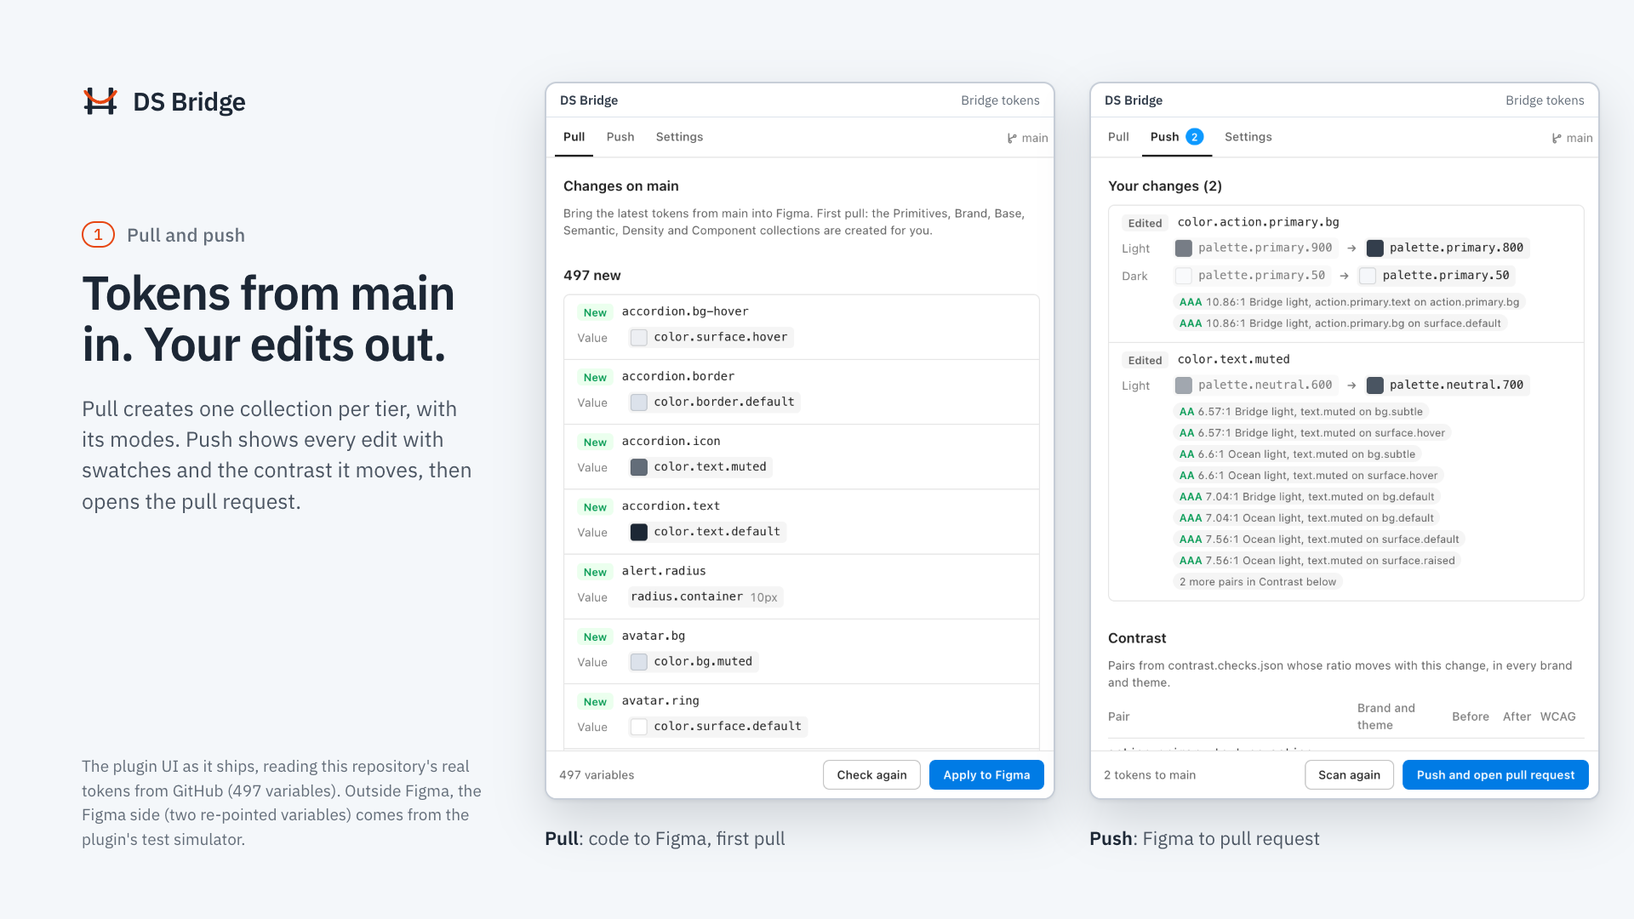
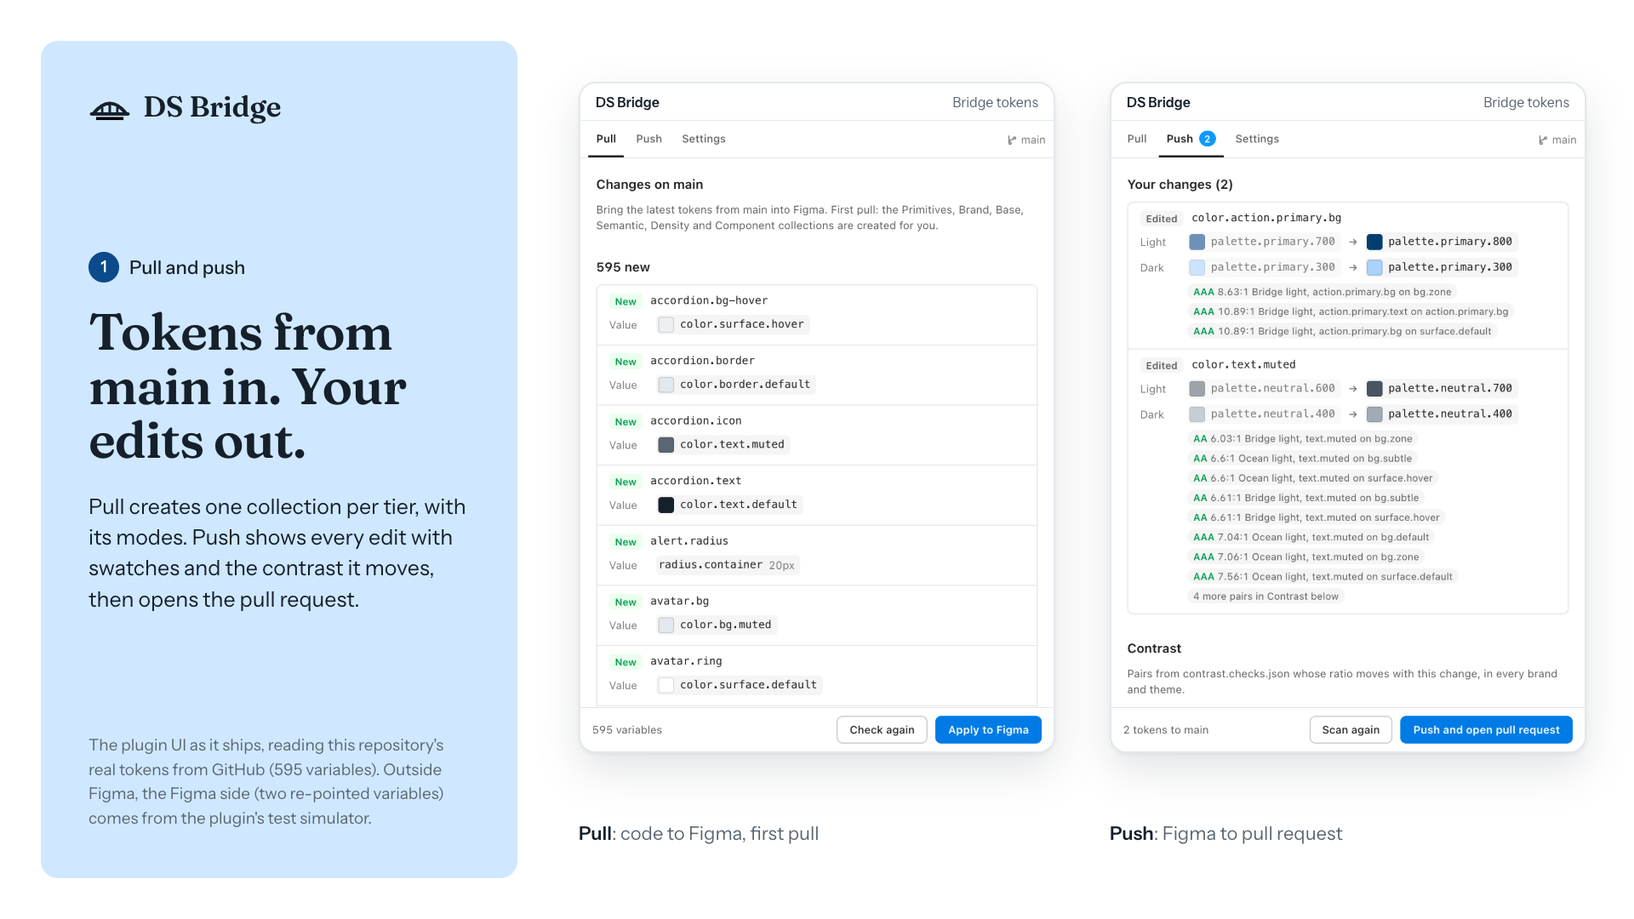
chore(plugin): Community art in the Field Guide direction
New icon (logo drawing on Harbor), cover and gallery in Fraunces and Instrument Sans with one Harbor zone
per canvas, Deep Harbor as the only strong color. Fresh shots: plugin first pull (595 variables) and push,
Studio Changes (#4) and Tokens. Reviews URL moved to /studio/changes.

Claude-Session: https://claude.ai/code/session_01WdLeRL5DKEJ3wYbg2pTxHK

diff --git a/apps/figma-plugin/community/src/art.html b/apps/figma-plugin/community/src/art.html
@@ -7,189 +7,195 @@
   Figma Community art for DS Bridge, rendered to PNG by render.mjs (one view per screenshot):
   ?view=icon (128x128), cover, gallery-plugin, gallery-review, gallery-tokens (1920x1080).
   Gallery views frame real screenshots (plugin-shots.mjs, web-shots.mjs) passed with ?shots=<folder URL>.
-  Colors and type follow docs/DESIGN-LANGUAGE.md: steel structure, International Orange only as the signal,
-  IBM Plex Sans and Mono. Marketing art, not product CSS: literal values are fine here.
+  Colors and type follow docs/DESIGN-LANGUAGE.md (Field Guide): white paper, ink text, one Harbor zone block per
+  canvas, Deep Harbor as the only strong color; Fraunces, Instrument Sans, IBM Plex Mono. Marketing art, not
+  product CSS: literal values are fine here.
 -->
 <style>
-  @font-face { font-family: "Plex Sans"; src: url("../../../../node_modules/@fontsource-variable/ibm-plex-sans/files/ibm-plex-sans-latin-wght-normal.woff2") format("woff2"); font-weight: 100 700; }
+  @font-face { font-family: "Fraunces"; src: url("../../../../node_modules/@fontsource-variable/fraunces/files/fraunces-latin-wght-normal.woff2") format("woff2"); font-weight: 100 900; }
+  @font-face { font-family: "Instrument Sans"; src: url("../../../../node_modules/@fontsource-variable/instrument-sans/files/instrument-sans-latin-wght-normal.woff2") format("woff2"); font-weight: 400 700; }
   @font-face { font-family: "Plex Mono"; src: url("../../../../node_modules/@fontsource/ibm-plex-mono/files/ibm-plex-mono-latin-400-normal.woff2") format("woff2"); font-weight: 400; }
   @font-face { font-family: "Plex Mono"; src: url("../../../../node_modules/@fontsource/ibm-plex-mono/files/ibm-plex-mono-latin-500-normal.woff2") format("woff2"); font-weight: 500; }
 
   :root {
-    --fog: #f4f7fa; --deck: #ffffff; --steel-100: #edeff2; --steel-200: #dce3eb; --steel-300: #c7ced8;
-    --steel-500: #818a96; --slate: #636d79; --steel-700: #4b5562; --steel-800: #333e4c; --ink: #1c2735;
-    --night: #0d1826; --signal: #e64611; --signal-soft: #fb8160; --cable: #22749e; --teal: #007e6a;
+    --paper: #ffffff; --ink: #15202b; --ink-2: #5b6672; --line: #e3e8ee; --subtle: #edeff2;
+    --harbor: #cfe8ff; --deep: #0b4a8b;
   }
   * { box-sizing: border-box; margin: 0; }
-  html, body { background: var(--fog); }
-  body { font-family: "Plex Sans", system-ui, sans-serif; color: var(--ink); -webkit-font-smoothing: antialiased; }
+  html, body { background: var(--paper); }
+  body { font-family: "Instrument Sans", system-ui, sans-serif; color: var(--ink); -webkit-font-smoothing: antialiased; }
   .mono { font-family: "Plex Mono", ui-monospace, monospace; }
   .view { display: none; position: relative; overflow: hidden; }
   .view.on { display: block; }
-  .canvas { width: 1920px; height: 1080px; }
+  .canvas { width: 1920px; height: 1080px; background: var(--paper); }
+  h1, h2 { font-family: "Fraunces", Georgia, serif; font-weight: 600; letter-spacing: -0.02em; font-variation-settings: "opsz" 96; }
 
-  /* Bridge mark: same geometry as apps/docs-site/src/components/Logo.astro (symbol #mark below) */
+  /* Bridge mark (Field Guide): same drawing as apps/docs-site/src/brand/illustrations.ts "logo" */
+  .mark { color: var(--ink); }
+  .mark .zone { fill: var(--harbor); }
+  .brand { display: flex; align-items: center; gap: 14px; font-family: "Fraunces", Georgia, serif; font-size: 34px; font-weight: 600; letter-spacing: -0.01em; }
+  .brand svg { width: 50px; height: 40px; }
+  .on-zone .mark .zone { fill: var(--deep); }
 
-  /* Icon */
-  #icon { width: 128px; height: 128px; background: var(--ink); color: var(--fog); }
-  #icon svg { position: absolute; left: 12px; top: 10px; width: 104px; height: 104px; }
+  /* Icon: ink drawing on a Harbor block, Deep Harbor water */
+  #icon { width: 128px; height: 128px; background: var(--harbor); }
+  #icon svg { position: absolute; left: 14px; top: 22px; width: 100px; height: 79px; }
 
-  /* Shared caption column */
-  .eyebrow { display: inline-flex; align-items: center; gap: 14px; font-size: 22px; font-weight: 500; color: var(--slate); letter-spacing: 0.01em; }
-  .eyebrow .step { font-family: "Plex Mono", monospace; font-size: 18px; color: var(--signal); border: 2px solid var(--signal); border-radius: 999px; padding: 2px 12px; }
-  h1, h2 { font-weight: 600; letter-spacing: -0.025em; }
-  .lead { font-size: 28px; line-height: 1.45; color: var(--steel-700); }
-  .brand { display: flex; align-items: center; gap: 16px; font-size: 30px; font-weight: 600; letter-spacing: -0.015em; color: var(--ink); }
-  .brand svg { width: 44px; height: 44px; color: var(--ink); }
+  /* Zone block: the one Harbor moment of each canvas */
+  .zone-block { position: absolute; background: var(--harbor); border-radius: 20px; }
+  .tag { font-size: 22px; color: var(--ink-2); }
+  .lead { font-size: 27px; line-height: 1.45; color: var(--ink); }
+  .step { display: inline-flex; align-items: center; gap: 12px; font-size: 22px; font-weight: 500; color: var(--ink); }
+  .step b { display: inline-grid; place-items: center; width: 36px; height: 36px; border-radius: 999px; background: var(--deep); color: #fff; font-size: 18px; font-weight: 600; }
 
   /* Cover */
-  #cover { background: var(--fog); }
-  #cover .top { position: absolute; left: 120px; top: 96px; right: 120px; display: flex; justify-content: space-between; align-items: center; }
-  #cover .tag { font-size: 22px; color: var(--slate); }
-  #cover h1 { position: absolute; left: 120px; top: 200px; width: 1300px; font-size: 92px; line-height: 1.04; }
-  #cover h1 em { font-style: normal; color: var(--signal); }
-  #cover .lead { position: absolute; left: 120px; top: 420px; width: 1100px; }
-  .bank { position: absolute; top: 600px; width: 540px; height: 370px; background: var(--deck); border: 2px solid var(--steel-200); border-radius: 20px; padding: 32px 36px; }
-  .bank.code { left: 120px; }
-  .bank.figma { right: 120px; }
-  .bank h3 { font-size: 22px; font-weight: 600; display: flex; justify-content: space-between; align-items: baseline; margin-bottom: 22px; }
-  .bank h3 small { font-family: "Plex Mono", monospace; font-size: 17px; font-weight: 400; color: var(--slate); }
-  .bank .row { display: flex; align-items: center; gap: 14px; font-family: "Plex Mono", monospace; font-size: 18px; height: 50px; border-top: 1px solid var(--steel-100); color: var(--steel-800); }
-  .bank .row:first-of-type { border-top: 0; }
-  .sw { width: 26px; height: 26px; border-radius: 6px; border: 1px solid rgba(28, 39, 53, 0.14); flex: none; }
-  .bank .row .v { margin-left: auto; color: var(--slate); font-size: 16px; }
-  .bank .row.changed { color: var(--ink); }
-  .bank .row.changed .v { color: var(--signal); }
-  .span { position: absolute; left: 670px; right: 670px; top: 560px; height: 450px; }
+  #cover .zone-block { left: 64px; top: 64px; right: 64px; height: 500px; }
+  #cover .top { position: absolute; left: 120px; top: 112px; right: 120px; display: flex; justify-content: space-between; align-items: center; }
+  #cover h1 { position: absolute; left: 120px; top: 210px; width: 1400px; font-size: 92px; line-height: 1.04; }
+  #cover h1 em { font-style: italic; color: var(--deep); }
+  #cover .lead { position: absolute; left: 120px; top: 432px; width: 1180px; }
+  .plate { position: absolute; top: 620px; width: 560px; height: 396px; background: var(--paper); border: 2px solid var(--line); border-radius: 20px; padding: 30px 36px; }
+  .plate.code { left: 64px; }
+  .plate.figma { right: 64px; }
+  .plate h3 { font-size: 24px; font-weight: 600; display: flex; justify-content: space-between; align-items: baseline; margin-bottom: 18px; }
+  .plate h3 small { font-family: "Plex Mono", monospace; font-size: 16px; font-weight: 400; color: var(--ink-2); }
+  .plate .row { display: flex; align-items: center; gap: 14px; font-family: "Plex Mono", monospace; font-size: 18px; height: 58px; border-top: 1px solid var(--line); }
+  .plate .row:first-of-type { border-top: 0; }
+  .sw { width: 26px; height: 26px; border-radius: 6px; border: 1px solid rgba(21, 32, 43, 0.16); flex: none; }
+  .plate .row .v { margin-left: auto; color: var(--ink-2); font-size: 16px; }
+  .plate .row.changed .v { color: var(--deep); font-weight: 500; }
+  .span { position: absolute; left: 640px; right: 640px; top: 620px; height: 396px; }
   .span svg { position: absolute; inset: 0; width: 100%; height: 100%; overflow: visible; }
   .lane { position: absolute; left: 0; right: 0; text-align: center; }
-  .lane b { display: block; font-size: 30px; font-weight: 600; letter-spacing: -0.015em; }
-  .lane span { font-size: 21px; color: var(--slate); }
+  .lane b { display: block; font-family: "Fraunces", Georgia, serif; font-size: 32px; font-weight: 600; }
+  .lane span { font-size: 20px; color: var(--ink-2); }
   .lane.pull { top: 0; }
-  .lane.push { top: 372px; }
+  .lane.push { top: 318px; }
 
-  /* Gallery */
-  .gallery { background: var(--fog); }
-  .gallery .copy { position: absolute; left: 96px; top: 96px; width: 470px; }
-  .gallery .copy .brand { margin-bottom: 120px; }
-  .gallery h2 { font-size: 56px; line-height: 1.08; margin: 22px 0 28px; }
+  /* Gallery: Harbor column opens the space, the real UI sits on paper */
+  .gallery .zone-block { left: 48px; top: 48px; bottom: 48px; width: 560px; }
+  .gallery .copy { position: absolute; left: 104px; top: 104px; width: 450px; }
+  .gallery .copy .brand { margin-bottom: 150px; }
+  .gallery h2 { font-size: 60px; line-height: 1.06; margin: 26px 0 28px; }
   .gallery .lead { font-size: 25px; }
-  .gallery .foot { position: absolute; left: 96px; bottom: 80px; width: 470px; font-size: 19px; line-height: 1.5; color: var(--slate); }
-  .gallery .foot .mono { font-size: 17px; color: var(--steel-700); }
-  .shot { position: absolute; background: var(--deck); border: 2px solid var(--steel-300); overflow: hidden; }
+  .gallery .foot { position: absolute; left: 104px; bottom: 104px; width: 450px; font-size: 19px; line-height: 1.5; color: var(--ink-2); }
+  .gallery .foot .mono { font-size: 16px; color: var(--ink); }
+  .shot { position: absolute; background: var(--paper); border: 2px solid var(--line); overflow: hidden; }
   .shot img { display: block; width: 100%; }
-  .browser { left: 640px; top: 96px; width: 1360px; height: 1100px; border-radius: 18px 0 0 0; border-right: 0; border-bottom: 0; }
-  /* Fitted frame: the whole page width stays inside the canvas (no bleed on the right). */
-  .browser.fit { width: 1220px; border-right: 2px solid var(--steel-300); border-radius: 18px 18px 0 0; }
-  .browser .bar { height: 46px; display: flex; align-items: center; gap: 10px; padding: 0 20px; border-bottom: 2px solid var(--steel-200); background: var(--steel-100); }
-  .browser .page { height: calc(100% - 46px); overflow: hidden; }
-  .browser .bar i { width: 12px; height: 12px; border-radius: 99px; background: var(--steel-300); }
-  .browser .bar .url { margin-left: 18px; font-family: "Plex Mono", monospace; font-size: 16px; color: var(--steel-700); background: var(--deck); border-radius: 8px; padding: 5px 14px; }
-  .window { width: 600px; border-radius: 14px; box-shadow: 0 2px 4px rgba(13, 24, 38, 0.06), 0 24px 56px rgba(13, 24, 38, 0.16); }
-  .window .bar { height: 40px; display: flex; align-items: center; padding: 0 16px; font-size: 15px; font-weight: 600; color: var(--steel-800); border-bottom: 1px solid var(--steel-200); }
-  .window .bar span { margin-left: auto; font-weight: 400; color: var(--slate); }
-  .window img { width: 600px; }
-  .w-pull { left: 640px; top: 96px; }
-  .w-push { left: 1280px; top: 96px; }
-  .w-label { position: absolute; top: 970px; width: 600px; font-size: 22px; color: var(--steel-700); }
+  .browser { left: 664px; top: 176px; width: 1208px; border-radius: 20px; }
+  .browser .bar { height: 48px; display: flex; align-items: center; gap: 10px; padding: 0 20px; border-bottom: 2px solid var(--line); background: var(--subtle); }
+  .browser .bar i { width: 12px; height: 12px; border-radius: 99px; background: #c9d1da; }
+  .browser .bar .url { margin-left: 18px; font-family: "Plex Mono", monospace; font-size: 16px; color: var(--ink-2); background: var(--paper); border-radius: 8px; padding: 5px 14px; }
+  .window { width: 560px; border-radius: 20px; box-shadow: 0 2px 4px rgba(11, 24, 37, 0.05), 0 20px 48px rgba(11, 24, 37, 0.12); }
+  .window .bar { height: 44px; display: flex; align-items: center; padding: 0 18px; font-size: 16px; font-weight: 600; border-bottom: 1px solid var(--line); }
+  .window .bar span { margin-left: auto; font-weight: 400; color: var(--ink-2); }
+  .w-pull { left: 680px; top: 96px; }
+  .w-push { left: 1304px; top: 96px; }
+  .w-label { position: absolute; top: 966px; width: 560px; font-size: 22px; color: var(--ink-2); }
   .w-label b { color: var(--ink); font-weight: 600; }
   </style>
 </head>
 <body>
 <svg width="0" height="0" style="position:absolute">
   <defs>
-    <symbol id="mark" viewBox="0 0 32 32">
-      <rect x="5" y="5" width="4" height="23" rx="1" fill="currentColor" />
-      <rect x="23" y="5" width="4" height="23" rx="1" fill="currentColor" />
-      <path d="M3 8.5Q16 27 29 8.5" fill="none" stroke="#e64611" stroke-width="2.75" stroke-linecap="round" />
-      <rect x="2" y="20.5" width="28" height="2.75" rx="1.375" fill="currentColor" />
+    <symbol id="mark" viewBox="0 0 28 22">
+      <path d="M3 16Q14 2 25 16" fill="none" stroke="currentColor" stroke-width="2.2" stroke-linecap="round" />
+      <path d="M2 16h24" stroke="currentColor" stroke-width="2.2" stroke-linecap="round" />
+      <path class="zone" d="M5 18h18v2H5z" />
+      <path d="M9 16v-4M14 16v-7M19 16v-4" stroke="currentColor" stroke-width="1.6" stroke-linecap="round" />
     </symbol>
   </defs>
 </svg>
 
-<div class="view" id="icon"><svg class="mark"><use href="#mark" /></svg></div>
+<div class="view on-zone" id="icon"><svg class="mark"><use href="#mark" /></svg></div>
 
 <div class="view canvas" id="cover">
-  <div class="top">
+  <div class="zone-block on-zone"></div>
+  <div class="top on-zone">
     <div class="brand"><svg class="mark"><use href="#mark" /></svg>DS Bridge</div>
     <div class="tag">Figma plugin · free and open source</div>
   </div>
   <h1>Figma Variables in.<br>Reviewed <em>pull requests</em> out.</h1>
   <p class="lead">Git stays the source of truth for your design tokens. Designers edit them in Figma, and every change goes back as a pull request with a contrast check.</p>
 
-  <div class="bank code">
+  <div class="plate code">
     <h3>Code <small>GitHub · DTCG JSON</small></h3>
-    <div class="row"><span class="sw" style="background:#1c2735"></span>color.text.default<span class="v">{palette.neutral.900}</span></div>
-    <div class="row changed"><span class="sw" style="background:#4b5562"></span>color.text.muted<span class="v">{palette.neutral.700}</span></div>
-    <div class="row"><span class="sw" style="background:#f4f7fa"></span>color.bg.default<span class="v">{palette.neutral.50}</span></div>
-    <div class="row"><span class="sw" style="background:#e64611"></span>focus.ring.color<span class="v">{palette.accent.500}</span></div>
-    <div class="row"><span class="sw" style="background:#22749e"></span>color.text.link<span class="v">{palette.link.600}</span></div>
+    <div class="row"><span class="sw" style="background:#15202b"></span>color.text.default<span class="v">{palette.neutral.900}</span></div>
+    <div class="row changed"><span class="sw" style="background:#5b6672"></span>color.text.muted<span class="v">{palette.neutral.600}</span></div>
+    <div class="row"><span class="sw" style="background:#cfe8ff"></span>color.bg.zone<span class="v">{palette.primary.200}</span></div>
+    <div class="row"><span class="sw" style="background:#0b4a8b"></span>color.action.primary.bg<span class="v">{palette.primary.700}</span></div>
+    <div class="row"><span class="sw" style="background:#ffffff"></span>color.bg.default<span class="v">{palette.neutral.0}</span></div>
   </div>
 
   <div class="span">
-    <svg viewBox="0 0 600 450" aria-hidden="true">
+    <svg viewBox="0 0 640 396" aria-hidden="true">
       <defs>
-        <marker id="head-ink" viewBox="0 0 10 10" refX="6" refY="5" markerWidth="4" markerHeight="4" orient="auto"><path d="M0 0L10 5L0 10z" fill="#1c2735" /></marker>
-        <marker id="head-signal" viewBox="0 0 10 10" refX="6" refY="5" markerWidth="4" markerHeight="4" orient="auto"><path d="M0 0L10 5L0 10z" fill="#e64611" /></marker>
+        <marker id="head-ink" viewBox="0 0 10 10" refX="6" refY="5" markerWidth="4" markerHeight="4" orient="auto"><path d="M0 0L10 5L0 10z" fill="#15202b" /></marker>
+        <marker id="head-deep" viewBox="0 0 10 10" refX="6" refY="5" markerWidth="4" markerHeight="4" orient="auto"><path d="M0 0L10 5L0 10z" fill="#0b4a8b" /></marker>
       </defs>
       <!-- Pull lane: code to Figma -->
-      <path d="M40 112 H548" stroke="#1c2735" stroke-width="6" stroke-linecap="round" marker-end="url(#head-ink)" />
-      <!-- the bridge mark, drawn large: two pillars, the deck, the suspended cable as the signal -->
-      <rect x="128" y="150" width="16" height="170" rx="4" fill="#1c2735" />
-      <rect x="456" y="150" width="16" height="170" rx="4" fill="#1c2735" />
-      <path d="M96 168 Q300 330 504 168" fill="none" stroke="#e64611" stroke-width="10" stroke-linecap="round" />
-      <rect x="70" y="270" width="460" height="12" rx="6" fill="#1c2735" />
+      <path d="M48 92 H586" stroke="#15202b" stroke-width="5" stroke-linecap="round" marker-end="url(#head-ink)" />
+      <!-- The Bridge mark, drawn large: arch, deck, three posts, Harbor water -->
+      <g transform="translate(194 92) scale(9)">
+        <path d="M3 16Q14 2 25 16" fill="none" stroke="#15202b" stroke-width="1" stroke-linecap="round" />
+        <path d="M2 16h24" stroke="#15202b" stroke-width="1" stroke-linecap="round" />
+        <path d="M9 16v-4M14 16v-7M19 16v-4" stroke="#15202b" stroke-width="0.75" stroke-linecap="round" />
+      </g>
+      <path d="M230 260 H410" stroke="#cfe8ff" stroke-width="14" stroke-linecap="round" />
       <!-- Push lane: Figma to pull request -->
-      <path d="M560 352 H52" stroke="#e64611" stroke-width="6" stroke-linecap="round" marker-end="url(#head-signal)" />
+      <path d="M592 300 H54" stroke="#0b4a8b" stroke-width="5" stroke-linecap="round" marker-end="url(#head-deep)" />
     </svg>
     <div class="lane pull"><b>Pull</b><span>code to Figma</span></div>
     <div class="lane push"><b>Push</b><span>Figma to a reviewed pull request</span></div>
   </div>
 
-  <div class="bank figma">
+  <div class="plate figma">
     <h3>Figma <small>Variables · 6 collections</small></h3>
-    <div class="row"><span class="sw" style="background:#1c2735"></span>color/text/default<span class="v">Semantic</span></div>
-    <div class="row changed"><span class="sw" style="background:#4b5562"></span>color/text/muted<span class="v">edited</span></div>
-    <div class="row"><span class="sw" style="background:#f4f7fa"></span>color/bg/default<span class="v">Semantic</span></div>
-    <div class="row"><span class="sw" style="background:#e64611"></span>palette/accent/500<span class="v">Brand</span></div>
-    <div class="row"><span class="sw" style="background:#22749e"></span>color/cable/600<span class="v">Primitives</span></div>
+    <div class="row"><span class="sw" style="background:#15202b"></span>color/text/default<span class="v">Semantic</span></div>
+    <div class="row changed"><span class="sw" style="background:#495562"></span>color/text/muted<span class="v">edited</span></div>
+    <div class="row"><span class="sw" style="background:#cfe8ff"></span>color/bg/zone<span class="v">Semantic</span></div>
+    <div class="row"><span class="sw" style="background:#0b4a8b"></span>palette/primary/700<span class="v">Brand</span></div>
+    <div class="row"><span class="sw" style="background:#cfe8ff"></span>color/harbor/200<span class="v">Primitives</span></div>
   </div>
 </div>
 
 <div class="view canvas gallery" id="gallery-plugin">
-  <div class="copy">
+  <div class="zone-block"></div>
+  <div class="copy on-zone">
     <div class="brand"><svg class="mark"><use href="#mark" /></svg>DS Bridge</div>
-    <div class="eyebrow"><span class="step">1</span>Pull and push</div>
+    <div class="step"><b>1</b>Pull and push</div>
     <h2>Tokens from main in. Your edits out.</h2>
     <p class="lead">Pull creates one collection per tier, with its modes. Push shows every edit with swatches and the contrast it moves, then opens the pull request.</p>
   </div>
-  <p class="foot">The plugin UI as it ships, reading this repository's real tokens from GitHub (497 variables). Outside Figma, the Figma side (two re-pointed variables) comes from the plugin's test simulator.</p>
+  <p class="foot">The plugin UI as it ships, reading this repository's real tokens from GitHub (595 variables). Outside Figma, the Figma side (two re-pointed variables) comes from the plugin's test simulator.</p>
   <div class="shot window w-pull"><div class="bar">DS Bridge<span>Bridge tokens</span></div><img data-shot="plugin-pull.png" alt=""></div>
   <div class="shot window w-push"><div class="bar">DS Bridge<span>Bridge tokens</span></div><img data-shot="plugin-push.png" alt=""></div>
-  <div class="w-label" style="left:640px"><b>Pull</b>: code to Figma, first pull</div>
-  <div class="w-label" style="left:1280px"><b>Push</b>: Figma to pull request</div>
+  <div class="w-label" style="left:680px"><b>Pull</b>: code to Figma, first pull</div>
+  <div class="w-label" style="left:1304px"><b>Push</b>: Figma to pull request</div>
 </div>
 
 <div class="view canvas gallery" id="gallery-review">
-  <div class="copy">
+  <div class="zone-block"></div>
+  <div class="copy on-zone">
     <div class="brand"><svg class="mark"><use href="#mark" /></svg>DS Bridge</div>
-    <div class="eyebrow"><span class="step">2</span>Reviewed, never pushed to main</div>
+    <div class="step"><b>2</b>Reviewed, never pushed to main</div>
     <h2>Every change becomes a pull request.</h2>
     <p class="lead">One branch, one commit, a changeset and a draft PR with the change table, contrast before and after, and the risk tier. CI and code owners decide.</p>
   </div>
-  <p class="foot">Pull request #4, opened by the plugin, in Bridge Reviews.<br><span class="mono">bridge.floriangouloubi.com/studio/reviews</span></p>
-  <div class="shot browser"><div class="bar"><i></i><i></i><i></i><span class="url">bridge.floriangouloubi.com/studio/reviews/?pr=4</span></div><div class="page"><img data-shot="web-review-full.png" alt="" style="margin-top:-150px"></div></div>
+  <p class="foot">Pull request #4, opened by the plugin, in Bridge Studio, Changes.<br><span class="mono">bridge.floriangouloubi.com/studio/changes</span></p>
+  <div class="shot browser"><div class="bar"><i></i><i></i><i></i><span class="url">bridge.floriangouloubi.com/studio/changes/?pr=4</span></div><div class="page"><img data-shot="web-review.png" alt=""></div></div>
 </div>
 
 <div class="view canvas gallery" id="gallery-tokens">
-  <div class="copy">
+  <div class="zone-block"></div>
+  <div class="copy on-zone">
     <div class="brand"><svg class="mark"><use href="#mark" /></svg>DS Bridge</div>
-    <div class="eyebrow"><span class="step">3</span>Any DTCG repository</div>
+    <div class="step"><b>3</b>Any DTCG repository</div>
     <h2>Tiered collections, straight from Git.</h2>
     <p class="lead">Primitives, Brand, Base, Semantic, Density and Component, with aliases kept across collections. Point <span class="mono" style="font-size:22px">bridge.config.json</span> at your own token files.</p>
   </div>
   <p class="foot">The same tokens in the Bridge Studio token explorer.<br><span class="mono">bridge.floriangouloubi.com/studio/tokens</span></p>
-  <div class="shot browser fit"><div class="bar"><i></i><i></i><i></i><span class="url">bridge.floriangouloubi.com/studio/tokens/</span></div><div class="page"><img data-shot="web-tokens-full.png" alt="" style="margin-top:-170px"></div></div>
+  <div class="shot browser"><div class="bar"><i></i><i></i><i></i><span class="url">bridge.floriangouloubi.com/studio/tokens/</span></div><div class="page"><img data-shot="web-tokens.png" alt=""></div></div>
 </div>
 
 <script>

diff --git a/.changeset/community-art-field-guide.md b/.changeset/community-art-field-guide.md
@@ -1,0 +1,5 @@
+---
+"@bridge-ds/figma-plugin": patch
+---
+
+Community art in the Field Guide direction (Fraunces, Harbor zone, Deep Harbor), with fresh screenshots of the plugin (595 variables) and Bridge Studio.
